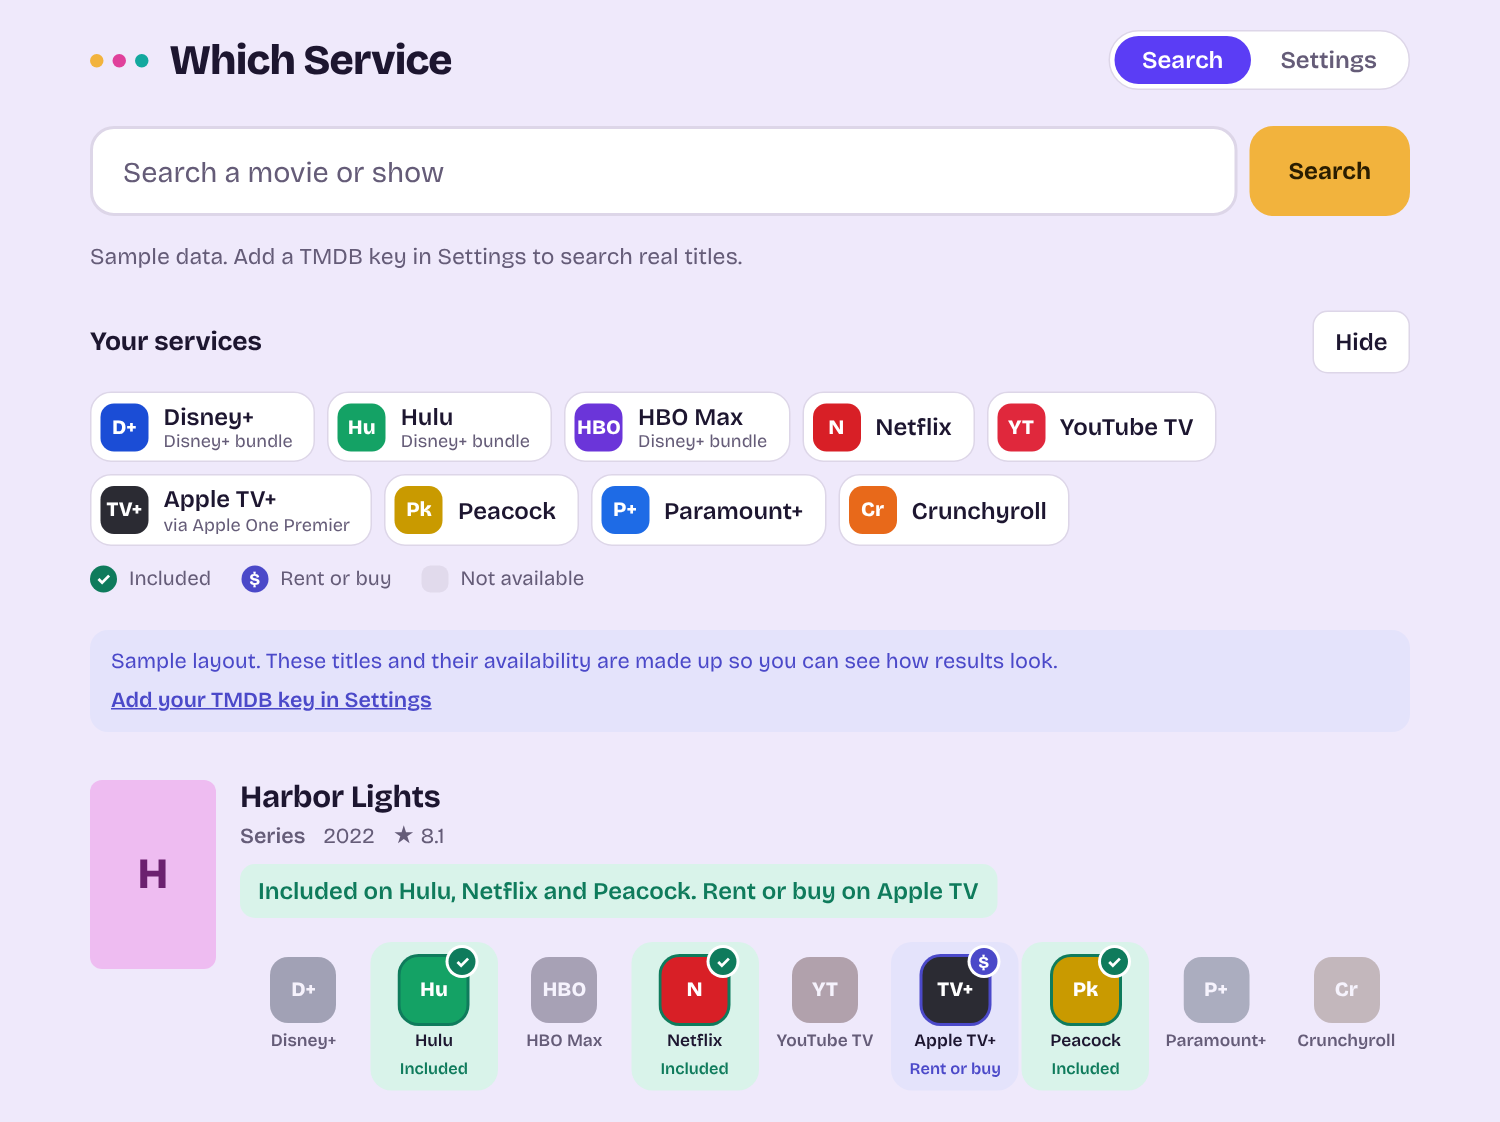
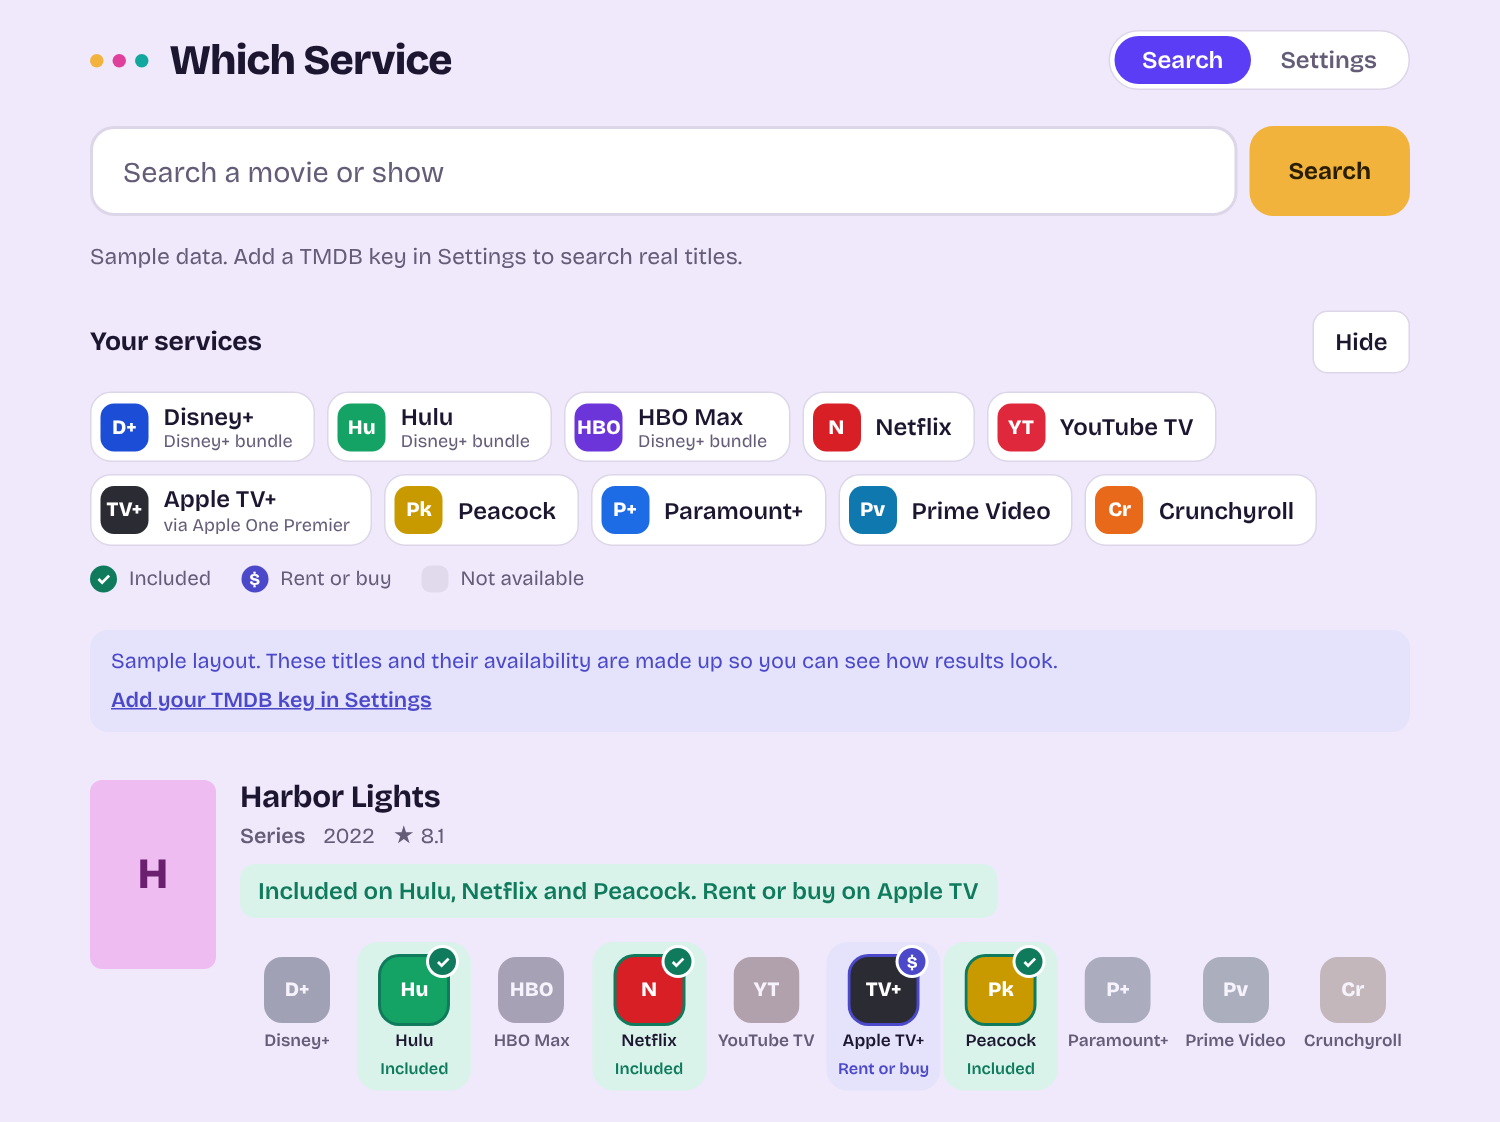
Add Prime Video as a tenth service
Matches Amazon Prime Video (including the ad tier) as included and Amazon
Video as rent or buy. Strip switches to ten columns from 880px wide and
stays at two rows of five below that. README and screenshot updated.

Claude-Session: https://claude.ai/code/session_01Qs1LGidkKxcSHeoLG11bNx

Changed region(s): [[0.1533, 0.8422, 0.9507, 0.967], [0.552, 0.4367, 0.8587, 0.4991]]

diff --git a/index.html b/index.html
@@ -165,7 +165,10 @@ footer{color:var(--muted);font-size:.8rem;display:flex;flex-direction:column;gap
 @media (min-width:640px){
   .row{grid-template-columns:84px minmax(0,1fr)}
   .poster{width:84px;height:126px;grid-row:1 / span 2;align-self:start}
-  .cells{grid-column:2;grid-template-columns:repeat(9,minmax(0,1fr));gap:6px 2px}
+  .cells{grid-column:2;grid-template-columns:repeat(5,minmax(0,1fr));gap:10px 2px}
+}
+@media (min-width:880px){
+  .cells{grid-template-columns:repeat(10,minmax(0,1fr));gap:6px 2px}
 }
 @media (min-width:900px){
   .long{display:inline}.short{display:none}
@@ -279,10 +282,11 @@ const SERVICES = [
   {id:'apple',       label:'Apple TV+',   short:'Apple TV+',  mono:'TV+', sub:'via Apple One Premier', ids:[350,2],  name:/^apple tv/i, payLabel:'Apple TV'},
   {id:'peacock',     label:'Peacock',     short:'Peacock',    mono:'Pk',                              ids:[],       name:/^peacock/i},
   {id:'paramount',   label:'Paramount+',  short:'Paramount+', mono:'P+',                              ids:[],       name:/^paramount/i},
+  {id:'prime',       label:'Prime Video', short:'Prime',      mono:'Pv',                              ids:[9,2100,10], name:/^amazon (prime|video)/i, payLabel:'Amazon Video'},
   {id:'crunchyroll', label:'Crunchyroll', short:'Crunchy',    mono:'Cr',                              ids:[283],    name:/^crunchyroll/i}
 ];
 // Tile colours for the letter fallback. These only show while a TMDB logo is missing.
-const TILE = {disney:'#1B4DD6',hulu:'#14A265',hbo:'#6B35D9',netflix:'#D81F26',youtubetv:'#E0283C',apple:'#2B2B33',peacock:'#C99A00',paramount:'#1E6BE6',crunchyroll:'#E8691A'};
+const TILE = {disney:'#1B4DD6',hulu:'#14A265',hbo:'#6B35D9',netflix:'#D81F26',youtubetv:'#E0283C',apple:'#2B2B33',peacock:'#C99A00',paramount:'#1E6BE6',prime:'#0F79AF',crunchyroll:'#E8691A'};
 const REGIONS = {US:'United States',CA:'Canada',GB:'United Kingdom',AU:'Australia',DE:'Germany',FR:'France',ES:'Spain',IT:'Italy',MX:'Mexico',BR:'Brazil',JP:'Japan',IN:'India'};
 
 /* ---------- Storage (per browser) ---------- */
@@ -535,7 +539,7 @@ const SAMPLE = [
   {h:{demo:1,media_type:'tv',    name:'Harbor Lights',       first_air_date:'2022-03-01', vote_average:8.1}, prov:{flatrate:[P(8,'Netflix'),P(15,'Hulu'),P(386,'Peacock')], buy:[P(2,'Apple TV')]}},
   {h:{demo:1,media_type:'movie', title:'The Long Quiet',     release_date:'2019-10-11',   vote_average:7.4}, prov:{flatrate:[P(337,'Disney Plus'),P(531,'Paramount Plus')]}},
   {h:{demo:1,media_type:'tv',    name:'Starlit Dojo',        first_air_date:'2023-04-07', vote_average:8.4}, prov:{flatrate:[P(283,'Crunchyroll')]}},
-  {h:{demo:1,media_type:'movie', title:'Paper Kingdoms',     release_date:'2016-06-24',   vote_average:6.9}, prov:{flatrate:[P(350,'Apple TV Plus')]}},
+  {h:{demo:1,media_type:'movie', title:'Paper Kingdoms',     release_date:'2016-06-24',   vote_average:6.9}, prov:{flatrate:[P(350,'Apple TV Plus')], buy:[P(10,'Amazon Video')]}},
   {h:{demo:1,media_type:'tv',    name:'Night Shift Kitchen', first_air_date:'2020-09-18', vote_average:7.7}, prov:{flatrate:[P(1899,'HBO Max'),P(2528,'YouTube TV')]}},
   {h:{demo:1,media_type:'movie', title:'Salt Road',          release_date:'2024-02-02',   vote_average:7.0}, prov:{}}
 ];

diff --git a/README.md b/README.md
@@ -6,11 +6,11 @@ Search a movie or show and see which of **your** streaming services carry it.
 
 *Sample data with invented titles. Service logos appear after you add a TMDB key.*
 
-Which Service is a single web page. Search a title and each result shows nine services in a fixed row. Services that carry the title are **lit** with a ✓, services where you can only rent or buy it get a **$**, and the rest are dimmed. No server, no build step, no dependencies.
+Which Service is a single web page. Search a title and each result shows ten services in a fixed row. Services that carry the title are **lit** with a ✓, services where you can only rent or buy it get a **$**, and the rest are dimmed. No server, no build step, no dependencies.
 
 ## Services
 
-Disney+, Hulu, HBO Max, Netflix, YouTube TV, Apple TV+, Peacock, Paramount+ and Crunchyroll.
+Disney+, Hulu, HBO Max, Netflix, YouTube TV, Apple TV+, Peacock, Paramount+, Prime Video and Crunchyroll.
 
 The list lives in the `SERVICES` array near the top of the `<script>` in `index.html`. Each entry matches TMDB's provider by id and by name, which also catches channel and premium variants (for example "Peacock Premium" or "Paramount Plus Apple TV Channel"). To change the list, edit `SERVICES`, plus the matching entry in `TILE` (the colour of the letter tile shown when a logo is missing).
 
@@ -43,7 +43,7 @@ python3 -m http.server
 
 ## Using it
 
-- **Search tab:** type a title and press Enter. Each result has a one-line verdict and a row of the nine services.
+- **Search tab:** type a title and press Enter. Each result has a one-line verdict and a row of the ten services.
 - **Your services:** the services list with logos. Use **Hide** or **Show** to collapse it. The choice is remembered.
 - **Settings tab:** the TMDB key, region, "Only show titles I can watch", and "Show my services".
 - **Light and dark:** the page follows your system setting.
